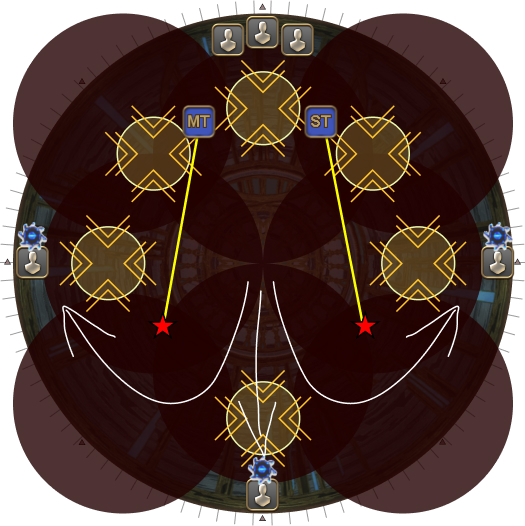
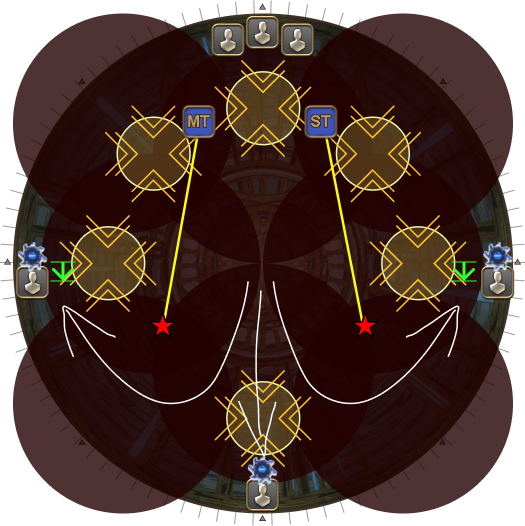
Point out Skyward Leap positions

diff --git a/_ultimates/dsr/02_thordan.en.md b/_ultimates/dsr/02_thordan.en.md
@@ -149,8 +149,10 @@ knights.
     <td width="50%">
       <p><b>1.</b> Using <b>Thordan as north</b>:</p>
       <ul>
-        <li>Three random (non-tanks) will be targeted with blue <em>Skyward
-        Leap</em> markers. These players go west, east, and south.</li>
+        <li><p>Three random (non-tanks) will be targeted with blue <em>Skyward
+        Leap</em> markers. These players go west, east, and south.</p>
+        <p>The marked players at the "east" and "west" positions should stand
+        <b>slightly away from Thordan</b> (roughly 1-2 notches).</p></li>
         <li>The other three (non-tanks) go north towards Thordan.
           <ul>
             <li>Two of these players will shortly be tethered to by the two
@@ -164,6 +166,7 @@ knights.
     </td>
     <td>
       <img src="{{site.baseurl}}/images/ultimates/dsr/02/strength_of_the_ward_2_1.jpg">
+      <img src="{{site.baseurl}}/images/ultimates/dsr/02/skyward_leap.jpg">
     </td>
   </tr>
   <tr>
@@ -181,8 +184,7 @@ knights.
       <p><b>3.</b> AoEs resolve.</p>
       <ul>
         <li>Each of the three blue-marked players will have a giant <em>Skyward
-        Leap</em> AoE centered on them. Take care not to hit the tanks with
-        these.</li>
+        Leap</em> AoE centered on them.</li>
         <li><em>The Dragon's Rage</em> resolves, which should be split between
         the three unmarked players and the two tanks.</li>
         <li>The two tanks will each be hit by <em>Holy Shield Bash</em>.</li>
